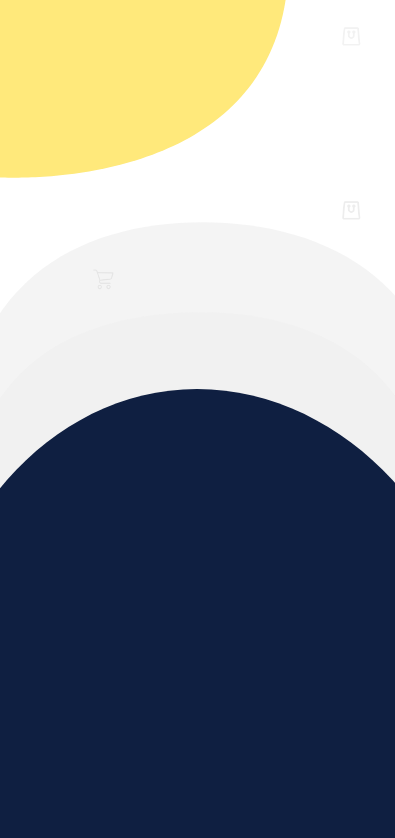
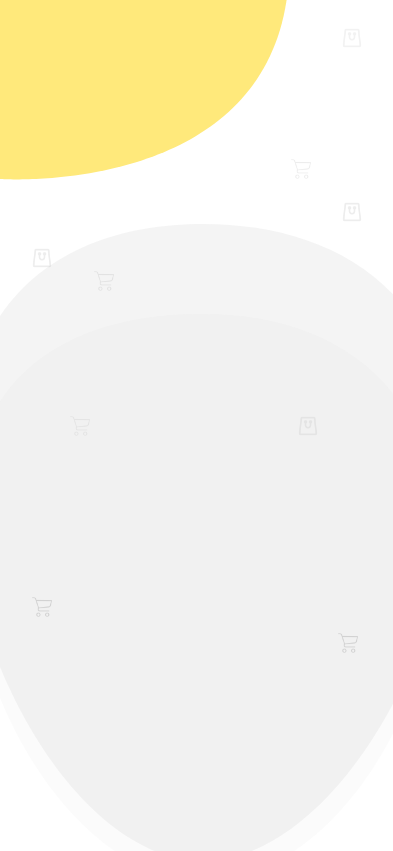
amgad last code 2.20

diff --git a/lib/presentation/screens/delivery_representative_screen/login/dr_login_screen.dart b/lib/presentation/screens/delivery_representative_screen/login/dr_login_screen.dart
@@ -1,16 +1,18 @@
 import 'package:flutter/material.dart';
+import 'package:flutter_svg/svg.dart';
 import 'package:productive_families/constants/end_points.dart';
 import 'package:productive_families/presentation/styles/colors.dart';
 import 'package:productive_families/presentation/widgets/default_form_field.dart';
+import 'package:productive_families/presentation/widgets/default_icon_button.dart';
 import 'package:productive_families/presentation/widgets/default_material_button.dart';
 import 'package:productive_families/presentation/widgets/default_text.dart';
 
 class DeliveryRepresentativeLoginScreen extends StatelessWidget {
   DeliveryRepresentativeLoginScreen({Key? key}) : super(key: key);
 
- final TextEditingController nameOrPhoneController = TextEditingController();
- final TextEditingController passwordController = TextEditingController();
- final GlobalKey<FormState> loginFormKey = GlobalKey<FormState>();
+  final TextEditingController nameOrPhoneController = TextEditingController();
+  final TextEditingController passwordController = TextEditingController();
+  final GlobalKey<FormState> loginFormKey = GlobalKey<FormState>();
 
   @override
   Widget build(BuildContext context) {
@@ -19,120 +21,111 @@ class DeliveryRepresentativeLoginScreen extends StatelessWidget {
     return Scaffold(
       body: SafeArea(
         child: SingleChildScrollView(
-          child: SizedBox(
-            height: screenHeight,
-            child: Stack(children: [
-              Container(
-                decoration: const BoxDecoration(
-                    image: DecorationImage(
-                        image: AssetImage("assets/image/login_background.png"),
-                        fit: BoxFit.fill,
-                        alignment: Alignment.center)),
-              ),
-              Form(
-                key: loginFormKey,
-                child: Padding(
-                  padding: const EdgeInsets.symmetric(horizontal: 20),
-                  child: Column(
-                    crossAxisAlignment: CrossAxisAlignment.end,
-                    children: [
-                      Column(
-                        mainAxisSize: MainAxisSize.min,
-                        crossAxisAlignment: CrossAxisAlignment.start,
-                        children: [
-                          Row(
-                            mainAxisAlignment: MainAxisAlignment.end,
-                            children: [
-                              DefaultText(
-                                text: 'رجوع',
-                                textStyle: Theme.of(context).textTheme.headline6,
-                              ),
-                              SizedBox(
-                                child: IconButton(
-                                  onPressed: () {
-                                    Navigator.pop(context);
-                                  },
-                                  padding: EdgeInsetsDirectional.zero,
-                                  icon: const Icon(Icons.arrow_forward_ios),
-                                ),
-                              ),
-
-                            ],
-                          ),
-                          Align(
-                            alignment: AlignmentDirectional.topEnd,
-                            child: DefaultText(
-                              text: 'تسجيل الدخول',
-                              textStyle: Theme.of(context).textTheme.headline6,
-                            ),
-                          ),
-                          Container(
-                            decoration: BoxDecoration(
-                              borderRadius: BorderRadius.circular(8),
-                              color: aboutGrey,
-                            ),
-                            child: IconButton(
-                              padding: const EdgeInsetsDirectional.all(20),
-                              icon: Image.asset('assets/icons/info.png'),
-                              onPressed: () {},
-                            ),
-                          ),
-                        ],
-                      ),
-
-                      Expanded(
-                        child: Column(
-                          mainAxisSize: MainAxisSize.max,
-                          crossAxisAlignment: CrossAxisAlignment.start,
+          child: Stack(children: [
+            Container(
+              decoration: const BoxDecoration(
+                  image: DecorationImage(
+                      image: AssetImage("assets/image/login_background.png"),
+                      fit: BoxFit.fill,
+                      alignment: Alignment.center)),
+            ),
+            Form(
+              key: loginFormKey,
+              child: Column(
+                crossAxisAlignment: CrossAxisAlignment.end,
+                children: [
+                  Padding(
+                    padding: const EdgeInsets.symmetric(horizontal: 16.0),
+                    child: Column(
+                      mainAxisSize: MainAxisSize.min,
+                      crossAxisAlignment: CrossAxisAlignment.start,
+                      children: [
+                        Row(
                           mainAxisAlignment: MainAxisAlignment.end,
                           children: [
                             DefaultText(
-                              text: 'الإسم او رقم الهاتف',
-                              color: Colors.white,
-                              textStyle:
-                              Theme.of(context).textTheme.headline6,
+                              text: 'رجوع',
+                              textStyle: Theme.of(context).textTheme.headline6,
                             ),
-                            DefaultFormField(
-                                controller: nameOrPhoneController,
-                                validator: (text) {
-
-                                },
-                                keyboardType: TextInputType.text),
-                            DefaultText(
-                              text: 'كلمة المرور',
-                              color: Colors.white,
-                              textStyle:
-                              Theme.of(context).textTheme.headline6,
-                            ),
-                            DefaultFormField(
-                                controller: passwordController,
-                                validator: (text) {
-
-                                },
-                                keyboardType: TextInputType.text),
-                            const SizedBox(
-                              height: 30,
-                            ),
-                            DefaultMaterialButton(
+                            IconButton(
                               onPressed: () {
-
-                                Navigator.pushNamedAndRemoveUntil(context, GUEST_LOCATION_PICKER, (route) => false);
-
+                                Navigator.pop(context);
                               },
-                              text: 'تسجيل الدخول',
-                            ),
-                            const SizedBox(
-                              height: 30,
+                              padding: EdgeInsetsDirectional.zero,
+                              icon: SvgPicture.asset(
+                                  'assets/icons/back_arrow.svg'),
                             ),
                           ],
                         ),
-                      )
-                    ],
+                        Align(
+                          alignment: AlignmentDirectional.topEnd,
+                          child: DefaultText(
+                            text: 'تسجيل الدخول',
+                            textStyle: Theme.of(context).textTheme.headline6,
+                          ),
+                        ),
+                        Padding(
+                          padding:
+                              const EdgeInsetsDirectional.only(start: 16.0),
+                          child: DefaultIconButton(
+                            height: 50,
+                            width: 50,
+                            background: aboutGrey,
+                            onPressed: () {},
+                            icon: SvgPicture.asset(
+                              'assets/icons/info.svg',
+                              height: 25,
+                              width: 25,
+                            ),
+                          ),
+                        ),
+                      ],
+                    ),
                   ),
-                ),
+                  Expanded(
+                    child: Column(
+                      mainAxisSize: MainAxisSize.max,
+                      crossAxisAlignment: CrossAxisAlignment.start,
+                      mainAxisAlignment: MainAxisAlignment.end,
+                      children: [
+                        DefaultText(
+                          text: 'الإسم او رقم الهاتف',
+                          color: Colors.white,
+                          textStyle: Theme.of(context).textTheme.headline6,
+                        ),
+                        DefaultFormField(
+                            controller: nameOrPhoneController,
+                            validator: (text) {},
+                            keyboardType: TextInputType.text),
+                        DefaultText(
+                          text: 'كلمة المرور',
+                          color: Colors.white,
+                          textStyle: Theme.of(context).textTheme.headline6,
+                        ),
+                        DefaultFormField(
+                            controller: passwordController,
+                            validator: (text) {},
+                            keyboardType: TextInputType.text),
+                        const SizedBox(
+                          height: 30,
+                        ),
+                        DefaultMaterialButton(
+                          onPressed: () {
+                            Navigator.pushNamedAndRemoveUntil(context,
+                                GUEST_LOCATION_PICKER, (route) => false);
+                          },
+                          text: 'تسجيل الدخول',
+                        ),
+                        const SizedBox(
+                          height: 30,
+                        ),
+                      ],
+                    ),
+                  )
+                ],
               ),
-            ]),
-          ),
+            ),
+          ]),
         ),
       ),
     );

diff --git a/lib/presentation/router/app_router.dart b/lib/presentation/router/app_router.dart
@@ -1,5 +1,8 @@
 import 'package:flutter/material.dart';
 import 'package:productive_families/constants/end_points.dart' as endpoints;
+import 'package:productive_families/presentation/screens/delivery_representative_screen/login/dr_login_screen.dart';
+import 'package:productive_families/presentation/screens/delivery_representative_screen/otp/dr_otp_screen.dart';
+import 'package:productive_families/presentation/screens/delivery_representative_screen/register/dr_register_screen.dart';
 import 'package:productive_families/presentation/screens/delivery_representative_screen/start/dr_start_screen.dart';
 import 'package:productive_families/presentation/screens/user_screens/about_product/about_product.dart';
 import 'package:productive_families/presentation/screens/user_screens/about_us/about_us.dart';
@@ -40,11 +43,8 @@ class AppRouter {
   late Widget startWidget;
 
   AppRouter() {
-
     startWidget = ChooseAccount();
-
   }
-
 
   Route? onGenerateRoute(RouteSettings settings) {
     switch (settings.name) {
@@ -58,7 +58,7 @@ class AppRouter {
         return MaterialPageRoute(
           builder: (_) => RegisterScreen(),
         );
-        case endpoints.DISPLAY_REPRESENTATIVE_PRICE_ITEM:
+      case endpoints.DISPLAY_REPRESENTATIVE_PRICE_ITEM:
         return MaterialPageRoute(
           builder: (_) => DisplayRepresentativePriceItem(),
         );
@@ -171,7 +171,7 @@ class AppRouter {
         return MaterialPageRoute(
           builder: (_) => OrderAddressConfirmationScreen(),
         );
-        case endpoints.ORDER_FOLLOW_UP:
+      case endpoints.ORDER_FOLLOW_UP:
         return MaterialPageRoute(
           builder: (_) => OrderFollowUp(),
         );
@@ -182,6 +182,18 @@ class AppRouter {
       case endpoints.DELIVERY_REPRESENTATIVE_START_SCREEN:
         return MaterialPageRoute(
           builder: (_) => DeliveryRepresentativeStartScreen(),
+        );
+      case endpoints.DELIVERY_REPRESENTATIVE_LOGIN_SCREEN:
+        return MaterialPageRoute(
+          builder: (_) => DeliveryRepresentativeLoginScreen(),
+        );
+      case endpoints.DELIVERY_REPRESENTATIVE_REGISTER_SCREEN:
+        return MaterialPageRoute(
+          builder: (_) => DeliveryRepresentativeRegisterScreen(),
+        );
+      case endpoints.DELIVERY_REPRESENTATIVE_OTP_SCREEN:
+        return MaterialPageRoute(
+          builder: (_) => DeliveryRepresentativeOtpScreen(),
         );
 
       default:

diff --git a/lib/presentation/screens/market_owner_screens/start/mo_start_screen.dart b/lib/presentation/screens/market_owner_screens/start/mo_start_screen.dart
@@ -4,8 +4,8 @@ import 'package:productive_families/presentation/styles/colors.dart';
 import 'package:productive_families/presentation/widgets/default_material_button.dart';
 import 'package:productive_families/presentation/widgets/default_text_button.dart';
 
-class DeliveryRepresentativeStartScreen extends StatelessWidget {
-  const DeliveryRepresentativeStartScreen({Key? key}) : super(key: key);
+class MarketOwnerStartScreen extends StatelessWidget {
+  const MarketOwnerStartScreen({Key? key}) : super(key: key);
 
   @override
   Widget build(BuildContext context) {

diff --git a/lib/presentation/screens/user_screens/login/login_screen.dart b/lib/presentation/screens/user_screens/login/login_screen.dart
@@ -73,7 +73,7 @@ class LoginScreen extends StatelessWidget {
                             ),
                             child: IconButton(
                               padding: const EdgeInsetsDirectional.all(20),
-                              icon: Image.asset('assets/icons/info.png'),
+                              icon: Image.asset('assets/icons/info.svg'),
                               onPressed: () {},
                             ),
                           ),

diff --git a/lib/presentation/screens/user_screens/start/start_screen.dart b/lib/presentation/screens/user_screens/start/start_screen.dart
@@ -19,7 +19,7 @@ class StartScreen extends StatelessWidget {
                 width: double.infinity,
                 decoration: const BoxDecoration(
                   image: DecorationImage(
-                      image: AssetImage("assets/image/start_back.png"),
+                      image: AssetImage("assets/image/start_background.png"),
                       fit: BoxFit.fill,
                       alignment: Alignment.center),
                 )),
